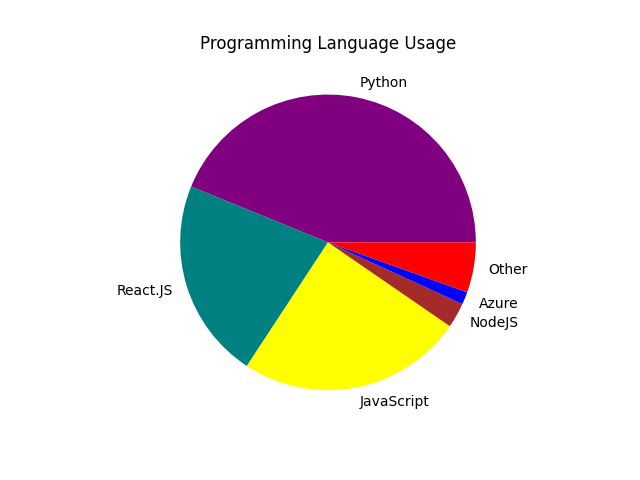
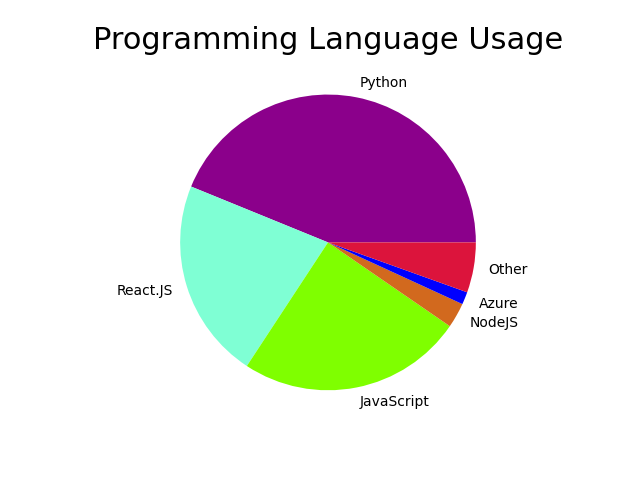
hex colors added, font size change

Changed region(s): [[0.2812, 0.375, 0.75, 0.8125], [0.125, 0.0625, 0.875, 0.125]]

diff --git a/main.py b/main.py
@@ -4,9 +4,10 @@ pieSlices = [160, 80, 90, 10, 5, 20]
 
 sliceLabels = ["Python", "React.JS", "JavaScript", "NodeJS", "Azure", "Other"]
 
-sliceColors = ["purple", "teal", "yellow", "brown", "blue", "red"]
+sliceColors = ["#8B008B", "#7FFFD4", "#7FFF00", "#D2691E", "#0000FF", "#DC143C"]
 
 plt.pie(pieSlices, labels=sliceLabels, colors=sliceColors)
-plt.title("Programming Language Usage")
+plt.title("Programming Language Usage", fontsize=22)
 plt.savefig("pieSlicePiechart.png")
 plt.show()
+
